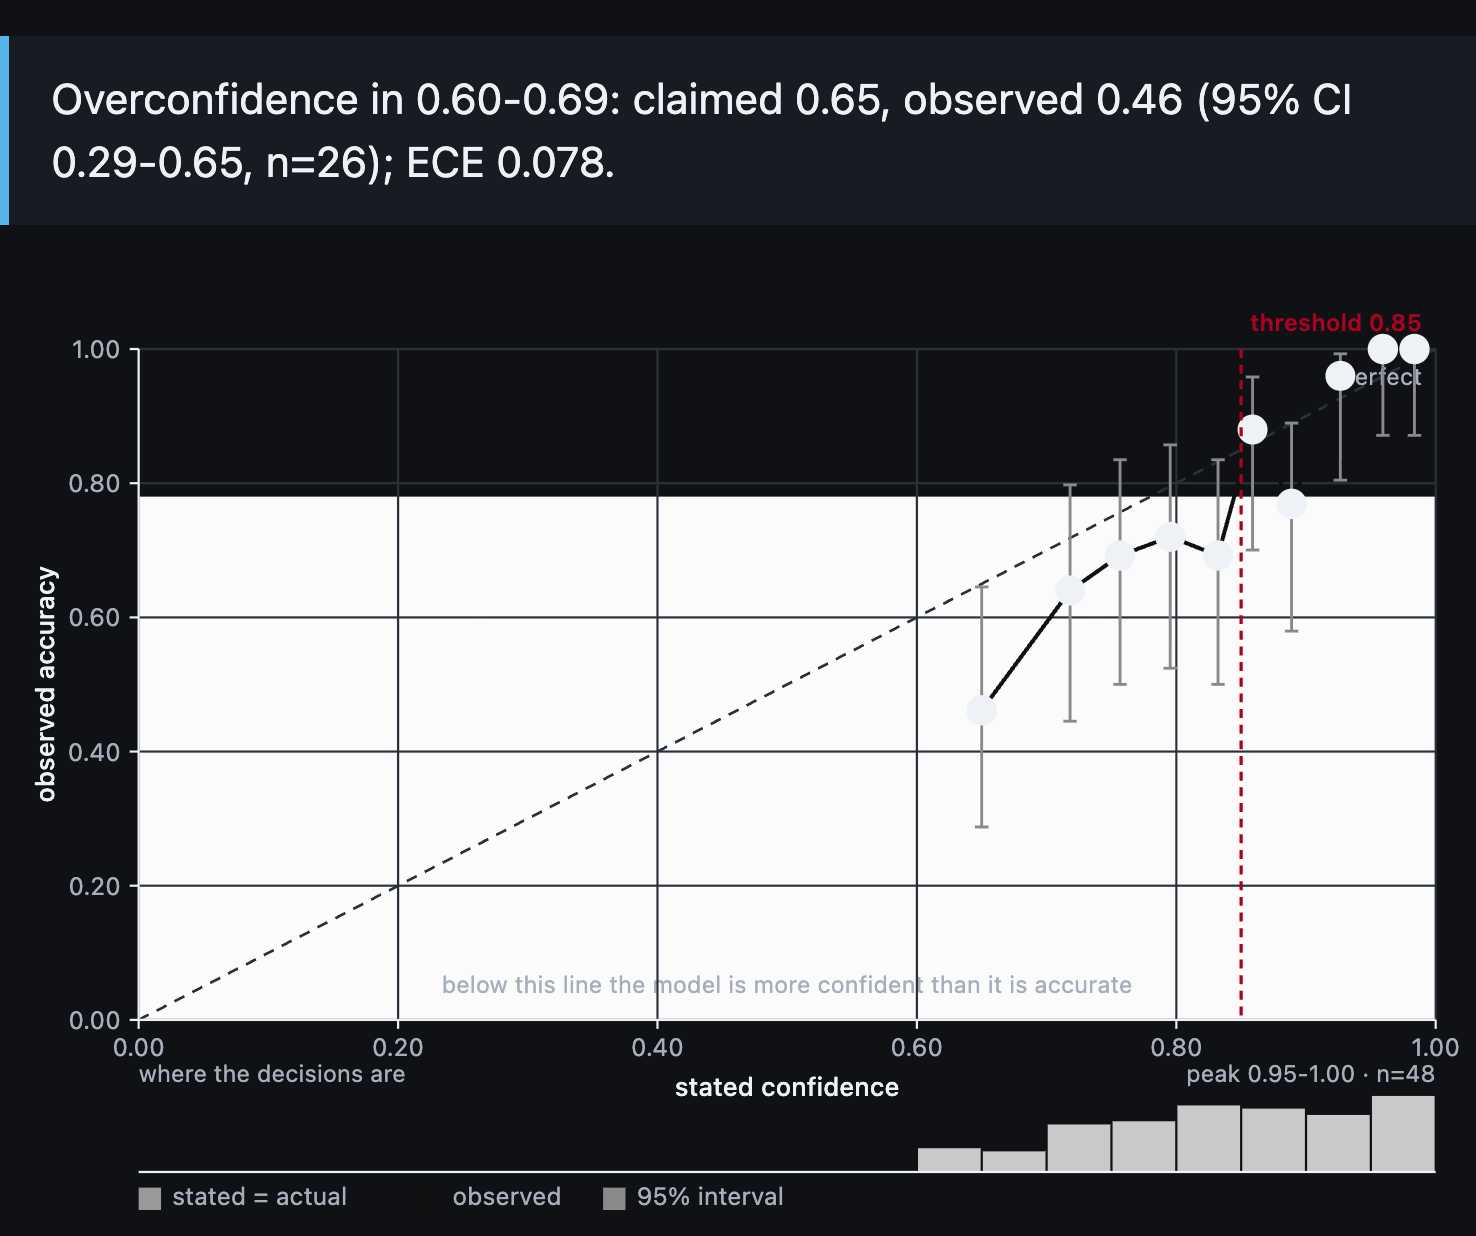
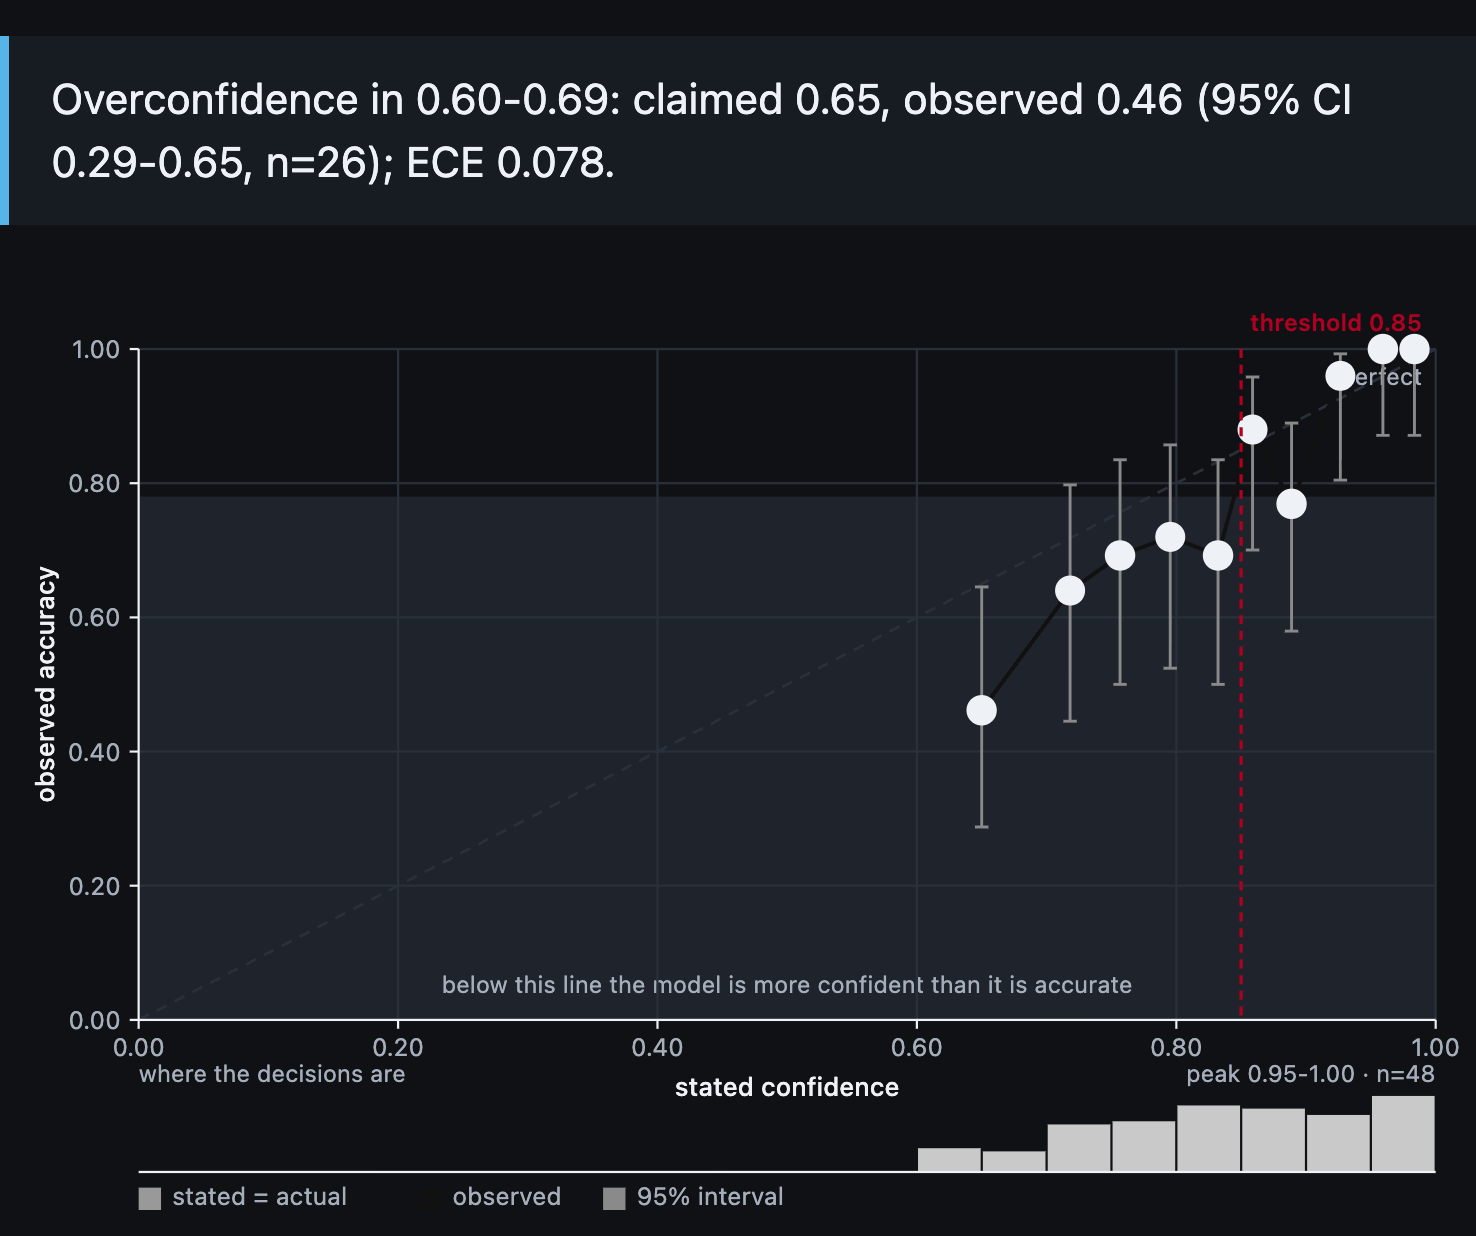
docs: rebuild the four previews from the theme-corrected report
Same framing, same 492x412 size, captured again so the panels no longer mix a
light chart band in with three dark ones. The reliability caption also stops
tying itself in a knot: 'what the model claimed, against how often it was
right'.

diff --git a/README.md b/README.md
@@ -28,7 +28,7 @@
     </td>
     <td width="50%" valign="top">
       <img src="docs/report-reliability.png" alt="Reliability chart: confidence along the bottom, how often the model was right up the side, with grey bands where the data is thin">
-      <br><sub>Confidence along the bottom, how often it was right up the side.</sub>
+      <br><sub>What the model claimed, against how often it was right.</sub>
     </td>
   </tr>
   <tr>
